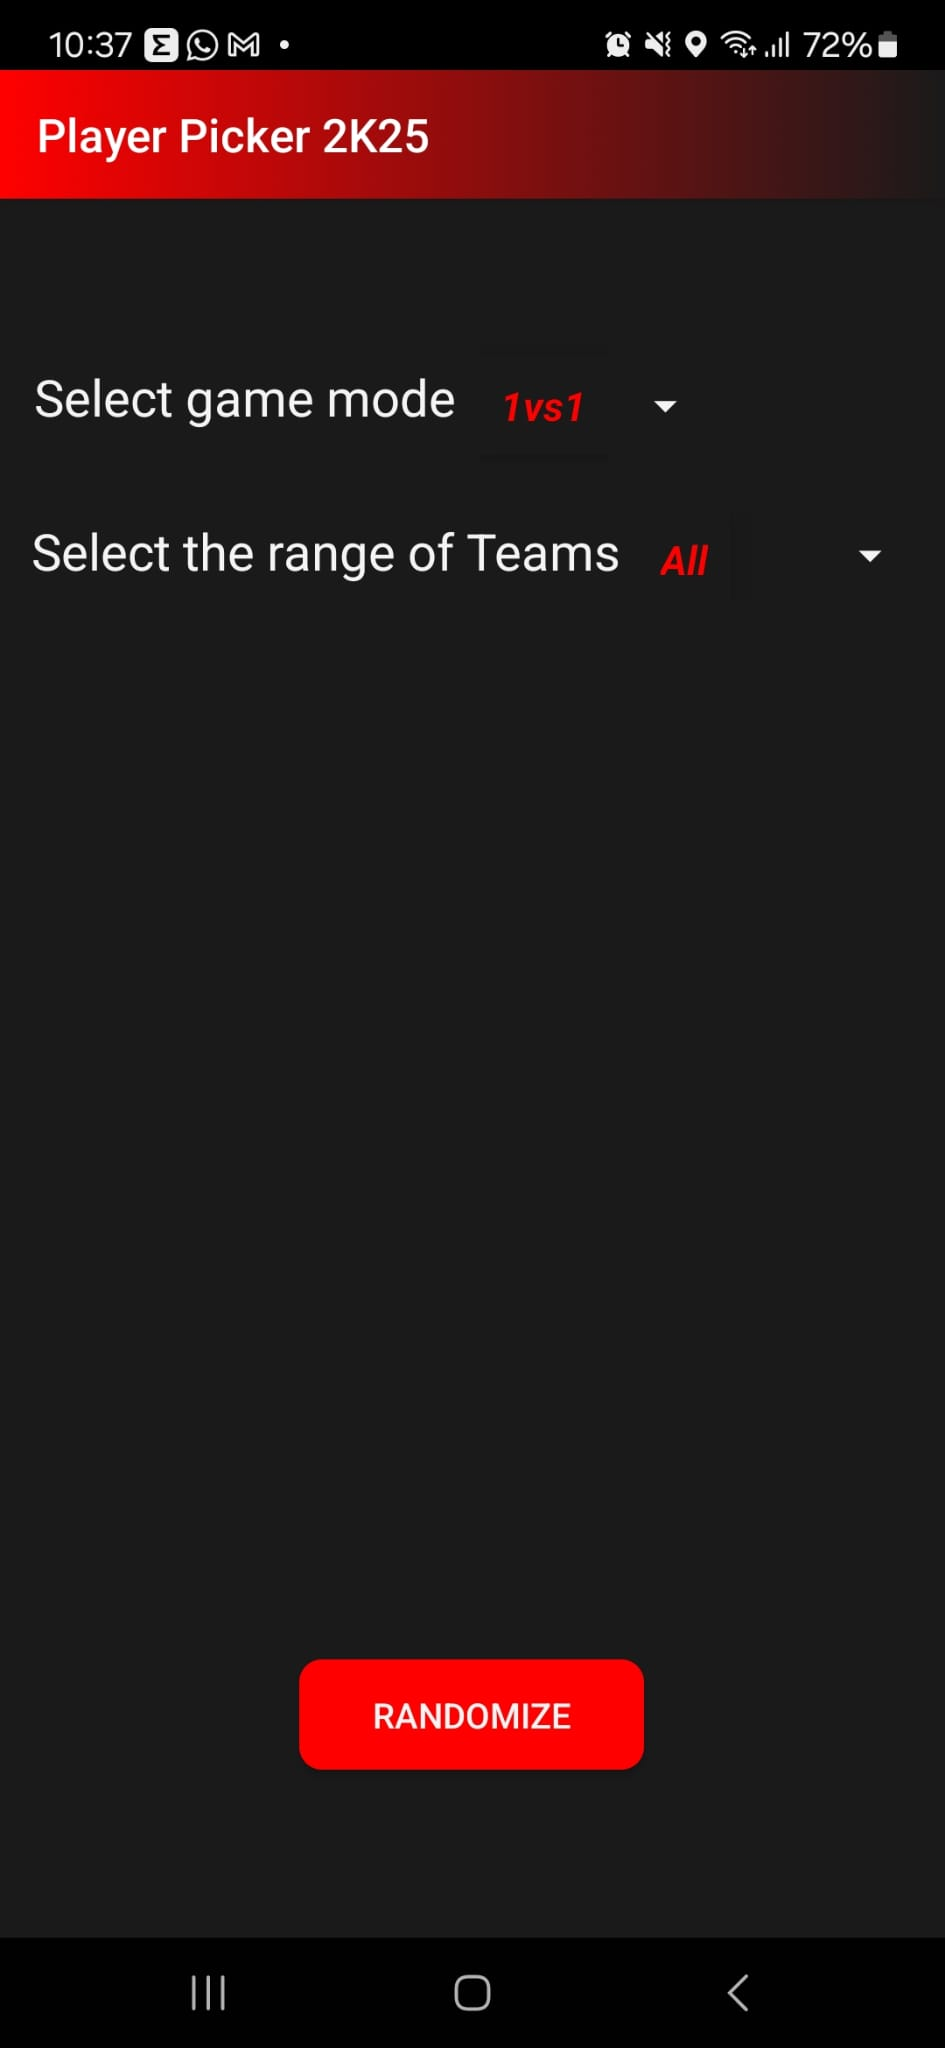
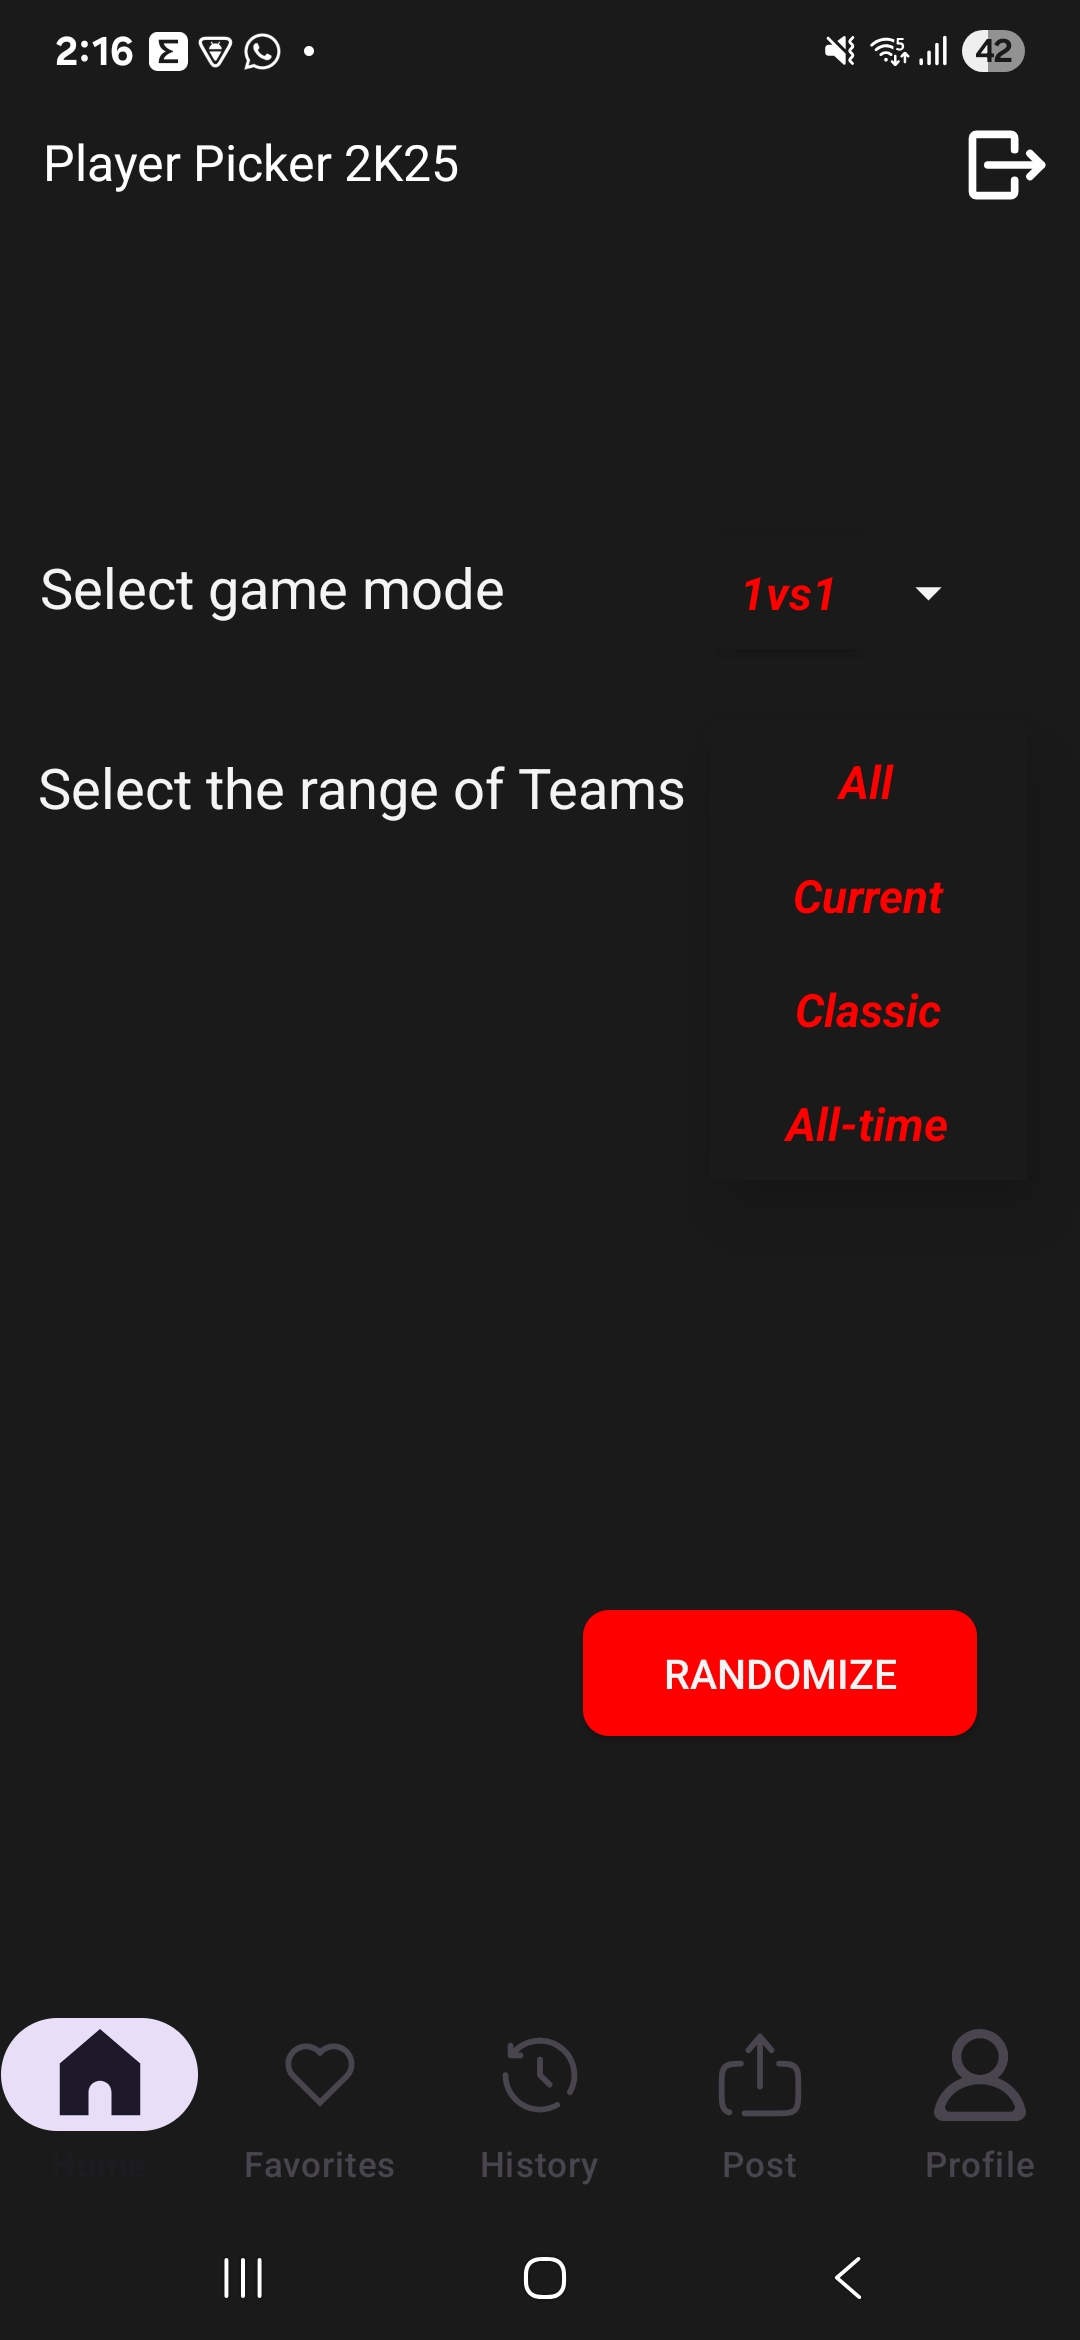
Update README.md

diff --git a/app/src/main/java/com/example/nba_team_rand_gen/MainActivity.kt b/app/src/main/java/com/example/nba_team_rand_gen/MainActivity.kt
@@ -636,7 +636,7 @@ class MainActivity : ComponentActivity() {
             }
         }
     }
-    
+
     // Simple placeholders; replace with real content any time
     @Composable
     private fun SimpleTabBody(label: String) {

diff --git a/README.md b/README.md
@@ -1,55 +1,79 @@
-
 # NBA 2K Random Team Generator
 
-An Android application for generating random NBA teams, designed to make team selection easy and fun for NBA enthusiasts.
+An Android app that generates fair, random NBA teams and lets you save, revisit, and manage matchups — built with **Kotlin**, **Jetpack Compose (Material 3)**, and **Firebase**.
 
-I enjoyed making this application because I learned the basics of kotlin
-and some things about servers and DBMS using MySQL and wampserver for hosting
-my database of players and teams.
+> **Author:** Stefan Calmac  
+> **Android versions:** 24 → 36 (36)  
+> **Gradle versions:** 8.9.3, 
+> **Java/Kotlin:** 17, 2.2.0
 
-## Features
+---
 
-- Randomizes NBA teams for gameplay or other purposes.
-- Clean UI to ensure ease of use.
-- Lightweight and efficient.
+## ✨ Features
 
-## Screenshots
+- **One-tap team randomizer** – Generates balanced teams from your player pool.
+- **Modern UI with Jetpack Compose** – Material 3 design, edge-to-edge layouts, and smooth navigation.
+- **Bottom navigation** – `Home`, `Favorites`, `Explore`, `Post`, `Profile` routes via Navigation-Compose.
+- **Save & manage matches** – Persist matchups and quickly revisit them later.
+- **Auth powered by Firebase** – Email/password sign-in and session handling.
+- **Interoperability** – Uses `AndroidViewBinding` where needed alongside Compose.
+- **Lightweight & fast** – Minimal dependencies, Kotlin-first codebase.
 
+---
+
+## 🧱 Tech Stack
+
+- **Language:** Kotlin
+- **UI:** Jetpack Compose (Material 3), Navigation-Compose
+- **State:** Compose state + `remember`/`mutableStateOf`
+- **Firebase:** Authentication, Cloud Firestore
+- **Serialization:** `kotlinx.serialization` (for `Team` / `PlayerWithTeam` JSON)
+- **InterOp:** `AndroidViewBinding` for existing views, RecyclerView adapter for some lists
+- **Build:** Gradle (KTS/Groovy), Android Gradle Plugin
+
+> Notable files from this repo snapshot:
+> - `MainActivity.kt` – app scaffold, top/bottom bars, Compose navigation host, sign-out dialog
+> - `RandomizeGame.kt` – core team randomization & models (`Team`, likely `PlayerWithTeam`)
+> - `ManageMatches.kt` – saved matches workflow
+> - `LoginActivity.kt`, `LoginService.kt`, `SignUpService.kt` – authentication flows (Firebase)
+> - `NavigationItem.kt` – bottom nav routes + icons
+> - `StringListAdapter.kt` – simple RecyclerView adapter used via view binding interop
+
+---
+
+## 🗺 App Flow (High-level)
+
+1. **Auth**: Users sign up or sign in with Firebase Auth. Session duration is managed app-side.
+2. **Home**: Entry point with actions to randomize teams.
+3. **Randomize**: Generates two teams; shows a composed screen (`ShowPlayerScreen`) with options to save as a named match.
+4. **Save/Manage Matches**: Persists to Firestore; view and manage in **Matches** (via `ManageMatches.kt`).
+5. **Explore/Favorites/Profile**: Present and planned screens wired into bottom navigation.
+
+---
+
+## 📸 Screenshots
 ![Main Screen](screenshots/screenshot1.jpg)
 
-## Installation
+---
 
-1. Clone the repository or download the ZIP.
-2. Open the project in **Android Studio**.
-3. Sync Gradle to ensure all dependencies are downloaded.
-4. Connect an Android device or start an emulator.
-5. Build and run the application.
+# 🧪 How to Use
+- Sign In / Sign Up with email and password.
+- Tap Randomize to generate two teams.
+- Save the matchup with a memorable name.
+- Find and manage saved matches in the dedicated screen.
+- Navigate between Home, Favorites, Explore, Post, and Profile from the bottom bar.
 
-## Project Structure
+---
 
-- **`app/src/main/`**: Contains the source code and resources for the app.
-  - **Java Files**:
-    - `MainActivity.kt`: The main entry point for the app.
-    - `RandomizeGame.kt`: Handles the team randomization logic.
-    - `ShowPlayer.kt`: Manages player display.
-  - **Resources**:
-    - Layouts: XML files defining the UI (`activity_main.xml`, `activity_show_player.xml`).
-    - Drawables: App icons and other drawable assets.
-    - Values: Strings, themes, and colors used in the app.
-- **`AndroidManifest.xml`**: Describes essential app information.
-- **Gradle Files**: Contains build scripts and dependency configurations.
+# 🚀 Roadmap Ideas
+- Import/export player pools
+- Seeding & fairness options (e.g., positions/ratings)
+- Offline cache of saved matches
+- Dynamic color (Material You) support
+- UI tests and snapshot tests
 
-## Prerequisites
+---
 
-- Android Studio Dolphin or later.
-- Minimum Android SDK version 21.
+# 🤝 Contributing
 
-## How to Use
-
-1. Launch the app on your device.
-2. Select options for randomization (if applicable).
-3. Generate teams with a single tap.
-
-## Contributing
-
-Feel free to fork this project, make improvements, and create pull requests. Contributions are always welcome!
+Contributions and suggestions are welcome! Feel free to open an issue or a pull request.
